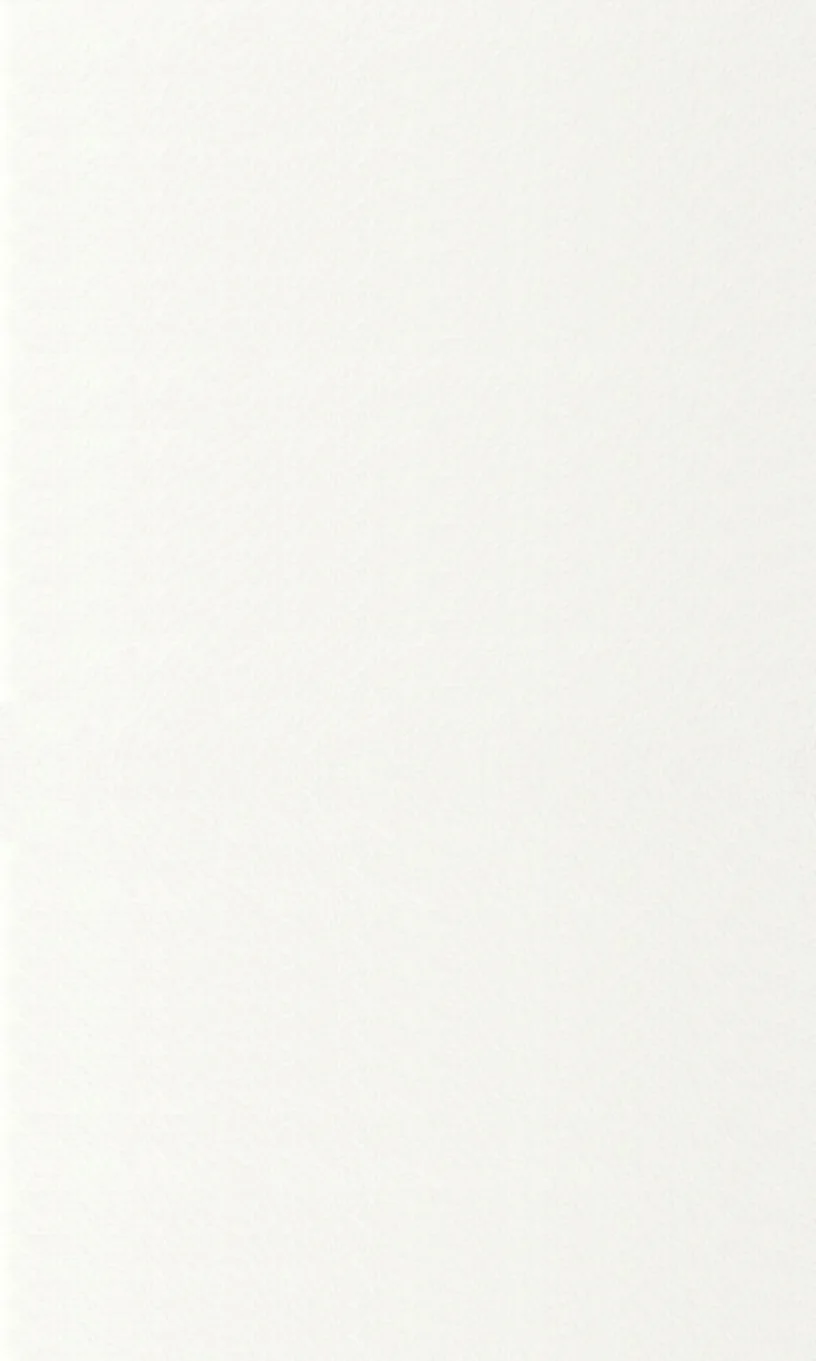
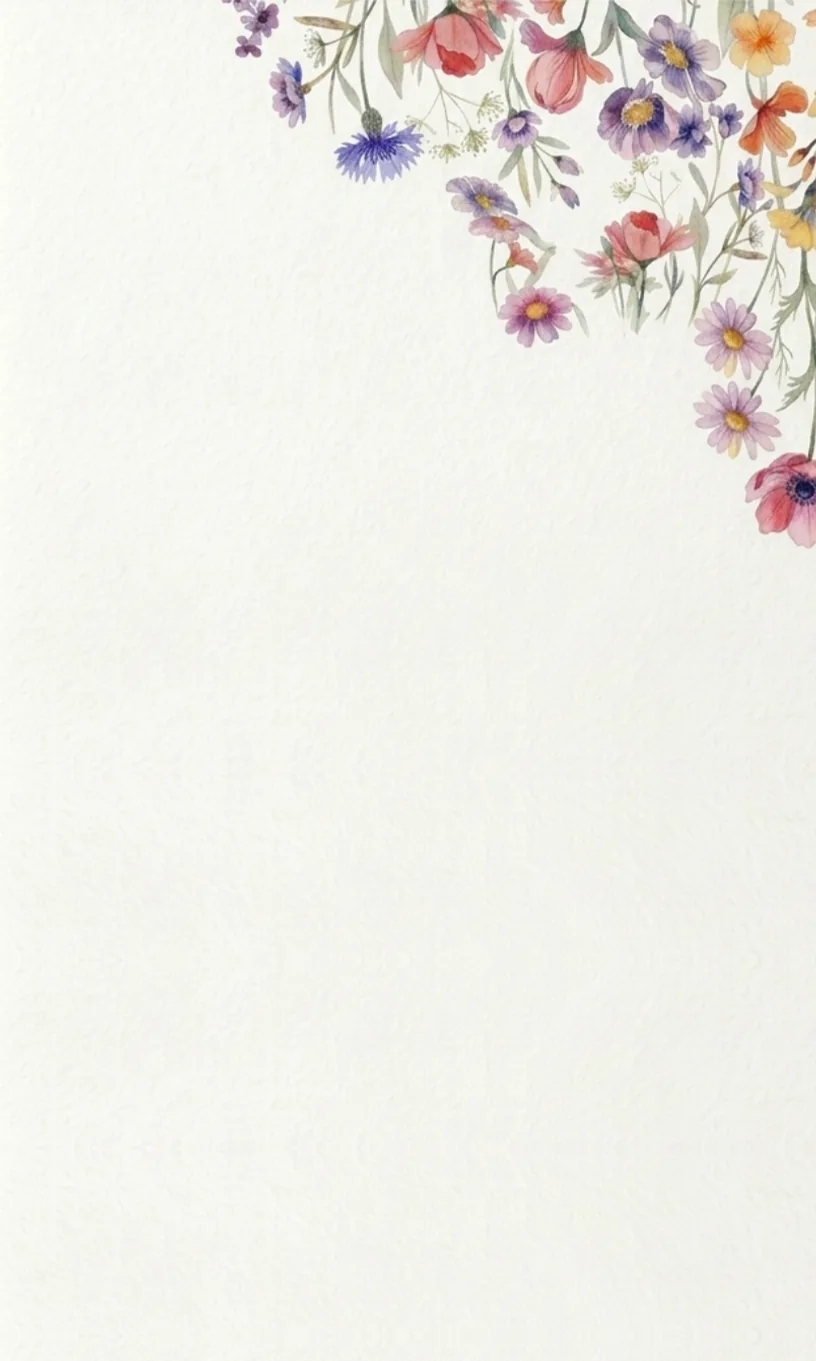
Venue page: new sheet2 background with top-right floral garland; text moved lower

Changed region(s): [[0.2757, 0.0, 1.0, 0.4012]]

diff --git a/app/globals.css b/app/globals.css
@@ -146,7 +146,8 @@ body { background: var(--background); color: var(--foreground); font-family: var
 .inv .sheet-in.no-photo .save { font-size:10.5cqw; }
 
 /* ───────── Card 3: venue on the plain paper sheet ───────── */
-.inv .card-venue { background:#f8f8f4 url(/templates/sage-story/v1/page-bg-venue.webp) center / cover no-repeat; gap:12px; padding:34px 30px; }
+/* the sheet has flowers cascading from the top-right corner, so the text sits in the lower part of the card */
+.inv .card-venue { background:#f8f8f4 url(/templates/sage-story/v1/page-bg-venue.webp) center / cover no-repeat; gap:12px; padding:52% 30px 8%; }
 .inv .venue-name { font-size:23px; letter-spacing:.14em; text-transform:uppercase; line-height:1.4; color:var(--ink); }
 .inv .venue-rule { display:block; width:44px; height:1px; background:var(--gold); margin:4px 0 2px; }
 .inv .venue-addr { font-size:16px; line-height:1.75; white-space:pre-line; color:var(--ink); }
